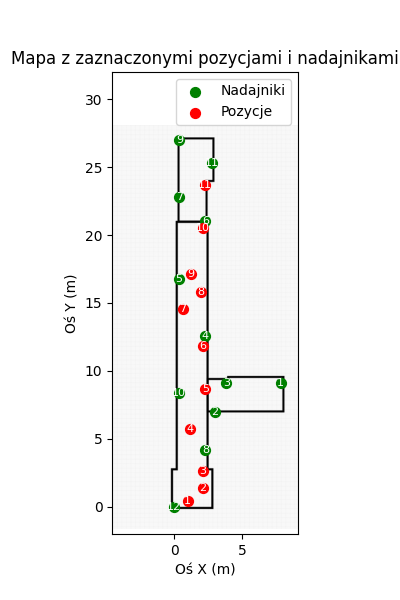
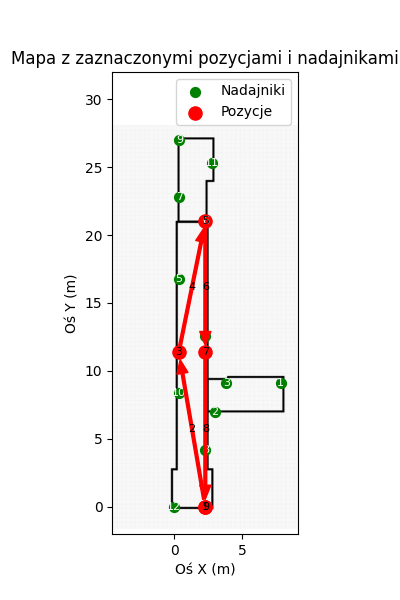
pomiar2

Changed region(s): [[0.42, 0.36, 0.54, 0.87], [0.48, 0.3, 0.54, 0.33], [0.45, 0.18, 0.51, 0.21]]

diff --git a/pomiar2/pozycje.py b/pomiar2/pozycje.py
@@ -1,0 +1,101 @@
+import pandas as pd
+import matplotlib.pyplot as plt
+from mapa_nadajniki import plot_transmitters_on_map
+
+
+pozycjePomiaru1_path = "dane/19.09.2025_06/pozycje.txt"
+df_positions = pd.read_csv(pozycjePomiaru1_path, header="infer", names=None)
+
+
+def plot_mesurement_position(ax=None, df_positions=df_positions):
+    if ax is None:
+        fig, ax = plt.subplots(figsize=(10, 8))
+
+    first_position_label_added = False
+    first_arrow_label_added = False
+
+    for i in range(len(df_positions)):
+        x_curr = df_positions.loc[i, "x"]
+        y_curr = df_positions.loc[i, "y"]
+
+        if pd.isna(x_curr) or pd.isna(y_curr):
+
+            if (
+                i > 0 and i < len(df_positions) - 1
+            ):  # Ensure i-1 and i+1 exist within dataframe bounds
+                x_prev = df_positions.loc[i - 1, "x"]
+                y_prev = df_positions.loc[i - 1, "y"]
+                x_next = df_positions.loc[i + 1, "x"]
+                y_next = df_positions.loc[i + 1, "y"]
+
+                if not (
+                    pd.isna(x_prev)
+                    or pd.isna(y_prev)
+                    or pd.isna(x_next)
+                    or pd.isna(y_next)
+                ):
+                    # Draw an arrow between the previous and next valid points
+                    label_str = (
+                        "Ścieżka dla brakujących punktów"
+                        if not first_arrow_label_added
+                        else None
+                    )
+                    ax.annotate(
+                        "",
+                        xy=(x_next, y_next),
+                        xytext=(x_prev, y_prev),
+                        arrowprops=dict(
+                            facecolor="red",
+                            edgecolor="red",
+                            shrink=0.05,
+                            width=2,
+                            headwidth=8,
+                            headlength=10,
+                        ),
+                        label=label_str,
+                    )
+                    first_arrow_label_added = True
+                    # Add the point number (i+1) near the arrow's midpoint
+                    ax.text(
+                        (x_prev + x_next) / 2,
+                        (y_prev + y_next) / 2,
+                        str(i + 1),
+                        color="black",
+                        fontsize=8,
+                        ha="center",
+                        va="center",
+                    )
+        else:
+            # Current point is valid, plot as usual
+            label_str = "Pozycje" if not first_position_label_added else None
+            ax.scatter(x_curr, y_curr, color="red", s=90, label=label_str)
+            first_position_label_added = True
+            ax.text(
+                x_curr,
+                y_curr,
+                str(i + 1),
+                color="black",
+                fontsize=8,
+                ha="center",
+                va="center",
+            )
+
+    ax.set_title("Mapa z zaznaczonymi pozycjami i nadajnikami")
+    ax.set_xlabel("Oś X (m)")
+    ax.set_ylabel("Oś Y (m)")
+    ax.set_ylim(-2, 32)
+
+    ax.legend(loc="upper right")
+
+    ax.set_aspect("equal", adjustable="box")
+
+    return ax
+
+
+if __name__ == "__main__":
+    print("Pozycje pomiarów 1:")
+    print(df_positions)
+    ax = plot_transmitters_on_map()
+    ax = plot_mesurement_position(ax)
+    plt.savefig(f"obrazy/pozycje_pomiarowe.png")
+    plt.show()
